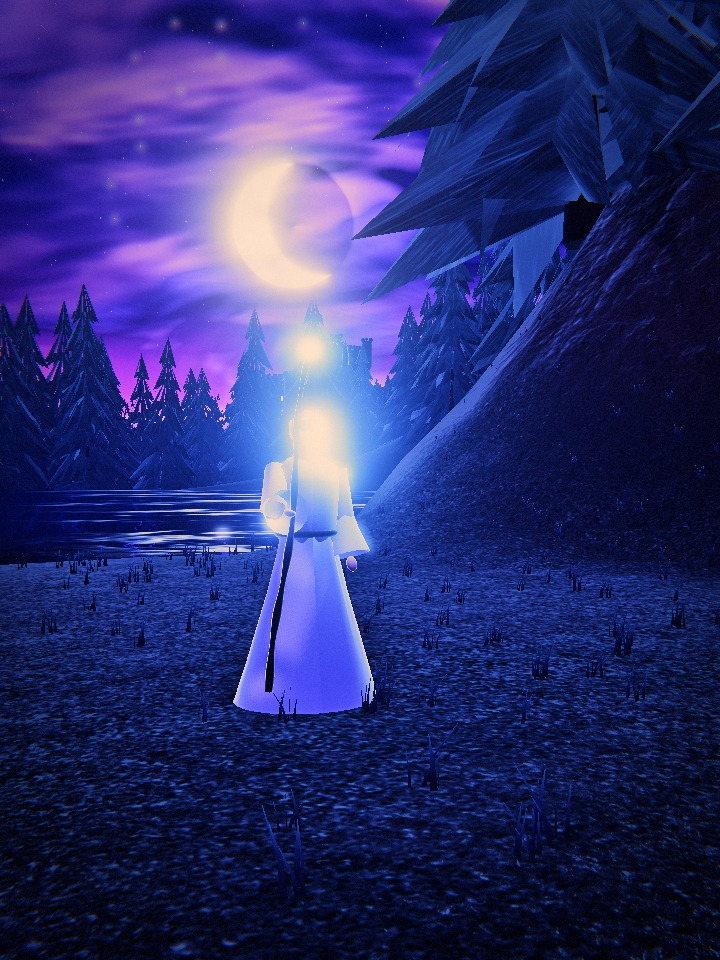
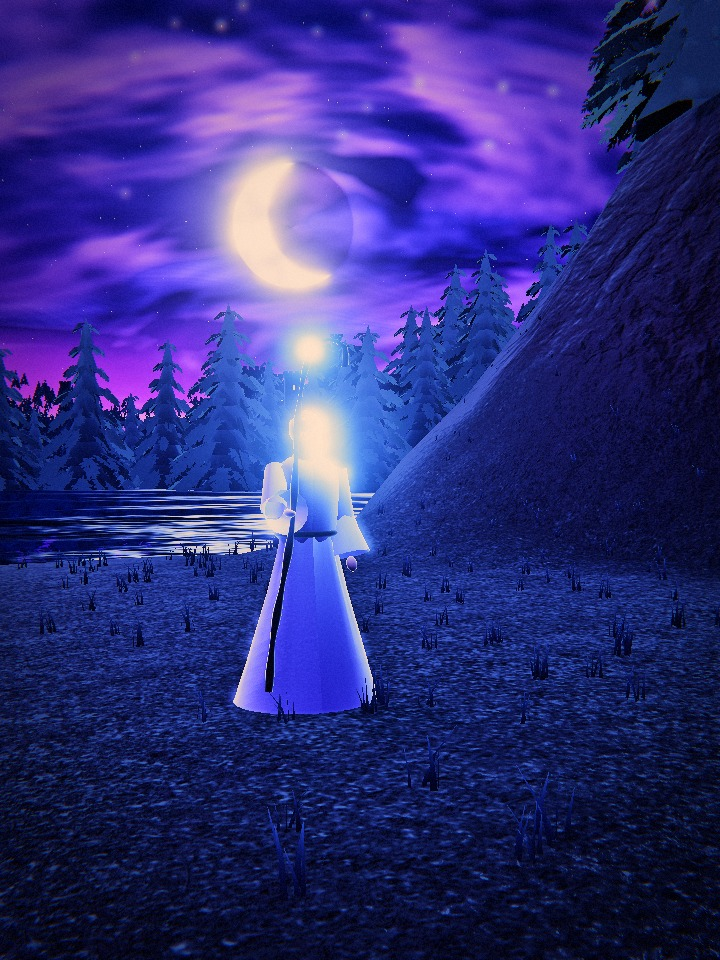
Real-leaf oak canopy, needle-card pines, lighter cobbles, perf trims
- oak canopy: CC0 ambientCG LeafSet016 leaves composed into a clump
  card (tools/make-leaf-clump.mjs); smaller dark core blobs
- pines (near LOD): drooping crossed fir-bough cards from CC0 LeafSet019
  (tools/make-fir-branch.mjs) over a dark core, alpha-tested shadows
- road cobbles lighter lavender, softer edge skirt (the dark sliver at the
  sandstone gate)
- skeleton glow tamed; armour rougher; pointer-lock rejection caught
- perf: lighter card pines, shorter near-LOD distance (~58 fps avg)

Claude-Session: https://claude.ai/code/session_01Mb2RLxway7QKL8XNuoyDQW

diff --git a/src/world/vegetation.js b/src/world/vegetation.js
@@ -82,6 +82,69 @@ export function pineGeometry({ tiers = 7, segs = 11, seed = 3, lod = 0 } = {}) {
   return merged;
 }
 
+/**
+ * Card pine (near LOD): a dark core cone per tier for density, plus rings of
+ * drooping crossed fir-bough cards (alpha-tested CC0 needle texture) so the
+ * silhouette is ragged and needly instead of faceted. Height ~1 unit.
+ * Vertex colour: shade (rgb). The 'aCard' attribute is 1 on cards, 0 on core/trunk.
+ */
+export function cardPineGeometry({ tiers = 7, seed = 3 } = {}) {
+  const rand = mulberry32(seed);
+  const parts = [];
+  const tag = (g, card, shade) => {
+    const n = g.attributes.position.count;
+    g.setAttribute('aCard', new THREE.Float32BufferAttribute(new Float32Array(n).fill(card), 1));
+    const col = new Float32Array(n * 3);
+    for (let i = 0; i < n; i++) { col[i * 3] = shade[0]; col[i * 3 + 1] = shade[1]; col[i * 3 + 2] = shade[2]; }
+    g.setAttribute('color', new THREE.BufferAttribute(col, 3));
+    if (!g.attributes.uv) g.setAttribute('uv', new THREE.Float32BufferAttribute(new Float32Array(n * 2), 2));
+    return g.index ? g.toNonIndexed() : g;
+  };
+  const trunk = new THREE.CylinderGeometry(0.012, 0.03, 0.4, 6, 1);
+  trunk.translate(0, 0.2, 0);
+  parts.push(tag(trunk, 0, [0.12, 0.08, 0.07]));
+  for (let t = 0; t < tiers; t++) {
+    const f = t / (tiers - 1);
+    const top = 0.26 + f * 0.74;
+    const radius = (1 - f * 0.86) * 0.27 + 0.03;
+    const len = 0.28 - f * 0.12;
+    // dark core: fills the gaps between boughs
+    const core = new THREE.ConeGeometry(radius * 0.62, len * 1.05, 8, 1, true);
+    core.translate(0, top - len * 0.52, 0);
+    parts.push(tag(core, 0, [0.05, 0.1, 0.08]));
+    const n = Math.max(4, Math.round(10 - f * 6));
+    for (let i = 0; i < n; i++) {
+      const a = (i / n) * Math.PI * 2 + rand() * 0.5;
+      const L = radius * (1.0 + rand() * 0.25), Wd = L * 0.36;
+      const droop = 0.35 + rand() * 0.2;
+      for (const cross of [0, 1]) {
+        const q = new THREE.PlaneGeometry(L, Wd, 2, 1);
+        q.translate(L / 2, 0, 0); // base at the trunk
+        if (cross) q.rotateX(Math.PI / 2);
+        // droop: bend along its length
+        const p = q.attributes.position;
+        for (let k = 0; k < p.count; k++) {
+          const x = p.getX(k);
+          p.setY(k, p.getY(k) - droop * x * x / L);
+        }
+        q.rotateY(-a);
+        q.translate(0, top - len * 0.25 - rand() * len * 0.15, 0);
+        const sh = 0.75 + rand() * 0.4;
+        parts.push(tag(q, 1, [sh, sh, sh]));
+      }
+    }
+  }
+  const g = mergeGeometries(parts);
+  g.computeVertexNormals();
+  // normals point out from the tree axis: soft, rounded shading for cards
+  const p = g.attributes.position, nrm = g.attributes.normal, v = new THREE.Vector3();
+  for (let i = 0; i < p.count; i++) {
+    v.set(p.getX(i), 0.35, p.getZ(i)).normalize();
+    nrm.setXYZ(i, v.x, v.y, v.z);
+  }
+  return g;
+}
+
 /** Lumpy rock: displaced icosahedron, ~1 unit wide. */
 export function rockGeometry(seed = 1, detail = 2) {
   const rand = mulberry32(seed);
@@ -206,6 +269,7 @@ export class InstancedScatter {
         im.instanceMatrix.needsUpdate = true;
         im.computeBoundingSphere();
         im.castShadow = shadow;
+        if (mat.userData.depthMaterial) im.customDepthMaterial = mat.userData.depthMaterial;
         im.receiveShadow = true;
         this.group.add(im);
         return im;
@@ -228,18 +292,34 @@ export class InstancedScatter {
   }
 }
 
-export function makePineScatter() {
-  const tex = needleTexture();
-  const mat = new THREE.MeshStandardMaterial({ vertexColors: true, map: tex, roughness: 0.92, envMapIntensity: 0.2 });
+export function makePineScatter(assets) {
+  const bough = assets.texture('assets/textures/fir_branch.png', { srgb: true });
+  bough.wrapS = bough.wrapT = THREE.ClampToEdgeWrapping;
+  const mat = new THREE.MeshStandardMaterial({ vertexColors: true, map: bough, alphaTest: 0.42, side: THREE.DoubleSide, roughness: 0.9, envMapIntensity: 0.2 });
+  // core/trunk parts ignore the bough texture (aCard = 0)
+  mat.onBeforeCompile = (sh) => {
+    sh.vertexShader = sh.vertexShader
+      .replace('#include <common>', '#include <common>\nattribute float aCard;\nvarying float vCard;')
+      .replace('#include <begin_vertex>', '#include <begin_vertex>\nvCard = aCard;');
+    sh.fragmentShader = sh.fragmentShader
+      .replace('#include <common>', '#include <common>\nvarying float vCard;')
+      .replace('#include <map_fragment>', `#ifdef USE_MAP
+        vec4 mc = texture2D(map, vMapUv);
+        if (vCard > 0.5) diffuseColor *= mc; else diffuseColor.rgb *= vec3(0.32, 0.45, 0.34);
+      #endif`);
+  };
   stylize(mat, { rim: 0.12, rimPower: 4.0, sway: 0.012, swayHeight: 1 });
+  // alpha-tested shadows: the depth pass must respect the bough cut-outs
+  mat.userData.depthMaterial = new THREE.MeshDepthMaterial({ depthPacking: THREE.RGBADepthPacking, map: bough, alphaTest: 0.42, side: THREE.DoubleSide });
   const farMat = new THREE.MeshStandardMaterial({ vertexColors: true, color: 0x9a9a9a, roughness: 0.95, envMapIntensity: 0.2 });
   stylize(farMat, { rim: 0.12, rimPower: 4.0 });
   return new InstancedScatter({
     name: 'pines',
-    near: pineGeometry({ seed: 11 }),
+    near: cardPineGeometry({ seed: 11 }),
     far: pineGeometry({ seed: 11, lod: 1 }),
     material: mat,
     farMaterial: farMat,
+    nearDist: 80,
   });
 }
 

diff --git a/src/world/trees.js b/src/world/trees.js
@@ -1,7 +1,7 @@
 import * as THREE from 'three';
 import { mergeGeometries, mergeVertices } from 'three/addons/utils/BufferGeometryUtils.js';
 import { mulberry32 } from '../engine/noise.js';
-import { stylize, canvasTexture } from '../render/materials.js';
+import { stylize } from '../render/materials.js';
 
 // Hero trees built from a recursive branching generator: the twisted black
 // dead tree (ref_01) and the huge sentinel oak with leaf-card canopy (ref_10).
@@ -96,28 +96,11 @@ export function deadTree(ctx, o = {}) {
   return { object: g, colliders: [{ x: 0, z: 0, r: (o.radius ?? 0.55) * 1.6 }] };
 }
 
-let _leafTex;
-function leafTexture() {
-  return (_leafTex ||= canvasTexture(256, 256, (g, w, h) => {
-    const r = mulberry32(8);
-    g.clearRect(0, 0, w, h);
-    for (let i = 0; i < 420; i++) {
-      const rr = Math.sqrt(r()) * (w * 0.44), ang = r() * Math.PI * 2;
-      const x = w / 2 + Math.cos(ang) * rr, y = h / 2 + Math.sin(ang) * rr, s = 7 + r() * 11, a = r() * Math.PI * 2;
-      const l = 140 + r() * 115;
-      g.save();
-      g.translate(x, y);
-      g.rotate(a);
-      g.fillStyle = `rgb(${l * 0.9},${l},${l * 0.85})`;
-      g.beginPath();
-      g.ellipse(0, 0, s * 0.45, s, 0, 0, Math.PI * 2);
-      g.fill();
-      g.strokeStyle = 'rgba(40,40,40,0.5)';
-      g.lineWidth = 1;
-      g.beginPath(); g.moveTo(0, -s); g.lineTo(0, s); g.stroke();
-      g.restore();
-    }
-  }));
+/** Real oak-leaf clump card (CC0 ambientCG LeafSet016, composed by tools/make-leaf-clump.mjs). */
+function clumpTexture(assets) {
+  const t = assets.texture('assets/textures/oak_leaf_clump.png', { srgb: true });
+  t.wrapS = t.wrapT = THREE.ClampToEdgeWrapping;
+  return t;
 }
 
 /** ref_10: huge broad oak — thick trunk, spreading limbs, leaf-card canopy. */
@@ -145,7 +128,7 @@ export function greatTree(ctx, o = {}) {
     const cr = (2.2 + rand() * 1.6) * S * (o.canopy ?? 1);
     const c = t.pos.clone().addScaledVector(t.dir, cr * 0.4);
     c.y += cr * 0.15;
-    let blob = new THREE.IcosahedronGeometry(cr * 0.85, 2);
+    let blob = new THREE.IcosahedronGeometry(cr * 0.62, 2);
     blob.deleteAttribute('uv');
     blob.deleteAttribute('normal');
     blob = mergeVertices(blob);
@@ -159,14 +142,14 @@ export function greatTree(ctx, o = {}) {
     blob.computeVertexNormals();
     blob.setAttribute('uv', new THREE.BufferAttribute(new Float32Array(bp.count * 2), 2));
     blobs.push(blob);
-    const n = Math.round(260 * (cr / (3 * S)) ** 2);
+    const n = Math.round(200 * (cr / (3 * S)) ** 2);
     for (let i = 0; i < n; i++) {
       const u = rand() * 2 - 1, a = rand() * Math.PI * 2;
       const r = Math.sqrt(1 - u * u);
       p.set(r * Math.cos(a), u * 0.7, r * Math.sin(a)).multiplyScalar(cr * (0.75 + rand() * 0.35)).add(c);
       e.set(rand() * Math.PI, rand() * Math.PI, rand() * Math.PI);
       q.setFromEuler(e);
-      const s = (0.55 + rand() * 0.5) * S * Math.sqrt(o.canopy ?? 1);
+      const s = (1.3 + rand() * 1.0) * S * Math.sqrt(o.canopy ?? 1);
       m.compose(p, q, sc.set(s, s, s));
       const g = card.clone().applyMatrix4(m);
       // normals point away from the cluster centre for soft, rounded shading
@@ -184,9 +167,9 @@ export function greatTree(ctx, o = {}) {
     }
   }
   const leafCol = new THREE.Color(o.leaves ?? '#2a5a3a');
-  const blobMat = stylize(new THREE.MeshStandardMaterial({ color: leafCol.clone().multiplyScalar(0.8), roughness: 0.95 }), { rim: 0.25, sway: 0.03, swayHeight: 20 });
+  const blobMat = stylize(new THREE.MeshStandardMaterial({ color: leafCol.clone().multiplyScalar(1.1), roughness: 0.95 }), { rim: 0.25, sway: 0.03, swayHeight: 20 });
   const cardMat = stylize(new THREE.MeshStandardMaterial({
-    color: leafCol, map: leafTexture(), vertexColors: true, alphaTest: 0.45, side: THREE.DoubleSide, roughness: 0.85, envMapIntensity: 0.3,
+    color: leafCol.clone().multiplyScalar(1.6), map: clumpTexture(ctx.assets), vertexColors: true, alphaTest: 0.5, side: THREE.DoubleSide, roughness: 0.85, envMapIntensity: 0.3,
   }), { rim: 0.18, rimPower: 3.2, sway: 0.05, swayHeight: 20 });
   const blobMesh = new THREE.Mesh(mergeGeometries(blobs.map((g) => g.toNonIndexed())), blobMat);
   const cardMesh = new THREE.Mesh(mergeGeometries(cards), cardMat);

diff --git a/src/world/characters.js b/src/world/characters.js
@@ -39,8 +39,8 @@ export function armorMaterial(assets, color = 0xb4aed0, dull = false) {
   return cached(`armor:${color}`, () => {
     const t = assets.pbr('metal_plate', [2, 2], { color: false });
     const m = new THREE.MeshPhysicalMaterial({
-      color, metalness: 0.55, roughness: 0.42, roughnessMap: t.roughnessMap, normalMap: t.normalMap,
-      normalScale: new THREE.Vector2(0.25, 0.25), clearcoat: 0.3, clearcoatRoughness: 0.2, envMapIntensity: 0.55,
+      color, metalness: 0.55, roughness: 0.55, roughnessMap: t.roughnessMap, normalMap: t.normalMap,
+      normalScale: new THREE.Vector2(0.25, 0.25), clearcoat: 0.0, envMapIntensity: 0.55,
     });
     return stylize(m, { rim: 0.55, rimPower: 3.0 });
   });
@@ -698,7 +698,7 @@ export function skeleton(ctx, o = {}) {
     const hq = rig.handR.getWorldQuaternion(new THREE.Quaternion()).invert();
     g.quaternion.copy(hq).multiply(new THREE.Quaternion().setFromEuler(new THREE.Euler(0.1, 0.6, 0.15)));
   }
-  const lights = [{ x: 0, y: 1.7, z: 0.5, color: glow, intensity: 2.5, distance: 6 }];
+  const lights = [{ x: 0, y: 1.2, z: 0.8, color: glow, intensity: o.light ?? 2.5, distance: 5 }];
   return finish(rig, { scale: o.height ? o.height / 1.85 : 1.1, lights });
 }
 

diff --git a/src/world/road.js b/src/world/road.js
@@ -134,15 +134,15 @@ export class Road {
         const edge = Math.abs(a) > 1.01;
         const crown = 0.1 * (1 - Math.min(1, a * a));
         pos[k * 3] = this.x[r] + nx * off;
-        pos[k * 3 + 1] = this.y[r] + (edge ? -0.12 : crown + 0.02);
+        pos[k * 3 + 1] = this.y[r] + (edge ? -0.04 : crown + 0.02);
         pos[k * 3 + 2] = this.z[r] + nz * off;
         const us = this.def.material?.uvScale ?? 3.2;
         uv[k * 2] = (off + this.half) / us;
         uv[k * 2 + 1] = (r * STEP) / us;
         const e = smoothstep(0.75, 1.05, Math.abs(a)); // darker, mossier edges
-        col[k * 3] = tmp.r * (1 - 0.45 * e);
-        col[k * 3 + 1] = tmp.g * (1 - 0.3 * e);
-        col[k * 3 + 2] = tmp.b * (1 - 0.4 * e);
+        col[k * 3] = tmp.r * (1 - 0.18 * e);
+        col[k * 3 + 1] = tmp.g * (1 - 0.12 * e);
+        col[k * 3 + 2] = tmp.b * (1 - 0.16 * e);
       }
     }
     for (let r = 0; r < rows - 1; r++) {
@@ -177,7 +177,7 @@ export class Road {
     const mat = new THREE.MeshPhysicalMaterial({
       ...tex,
       vertexColors: true,
-      color: 0x403848,
+      color: 0x6a6280,
       roughness: 0.36,
       metalness: 0.1,
       normalScale: new THREE.Vector2(1.6, 1.6),

diff --git a/src/engine/input.js b/src/engine/input.js
@@ -28,7 +28,10 @@ export class Input {
 
   on(type, fn) { this.listeners[type].push(fn); }
 
-  requestLock() { this.element.requestPointerLock?.(); }
+  requestLock() {
+    // browsers reject (with a console error) when there was no user gesture: that is fine, the next click locks
+    try { this.element.requestPointerLock?.()?.catch?.(() => {}); } catch { /* older browsers throw */ }
+  }
 
   down(...codes) { return codes.some((c) => this.keys.has(c)); }
 

diff --git a/src/world/world.js b/src/world/world.js
@@ -67,7 +67,7 @@ export async function buildWorld({ scene, assets, region, lightPool }) {
   const culled = [];
 
   // --- per-area content
-  const pines = makePineScatter();
+  const pines = makePineScatter(assets);
   const rocks = makeRockScatter(assets);
   const crags = makeCragScatter(assets);
   ctx.crags = crags;
